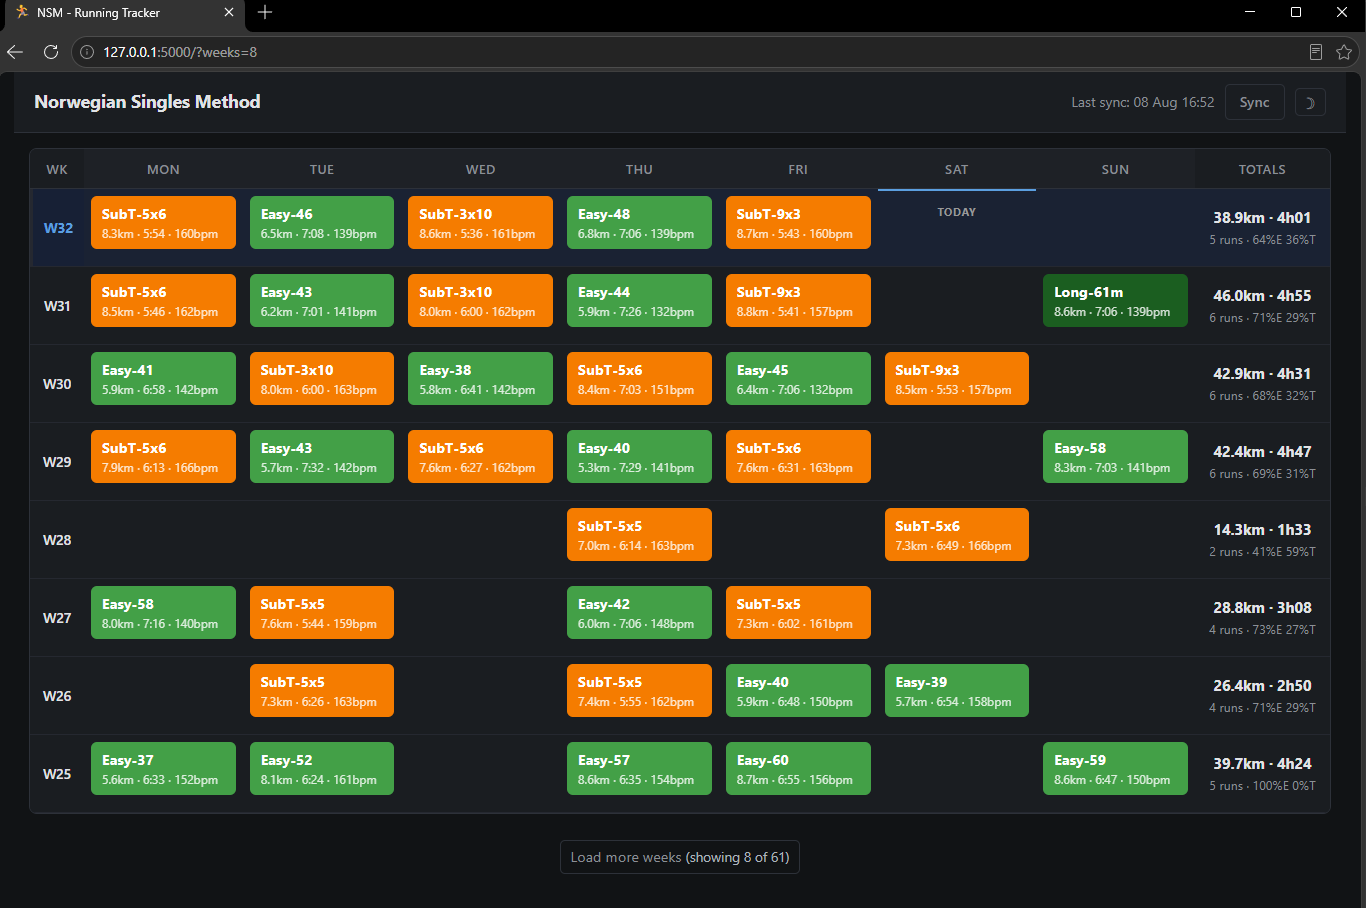
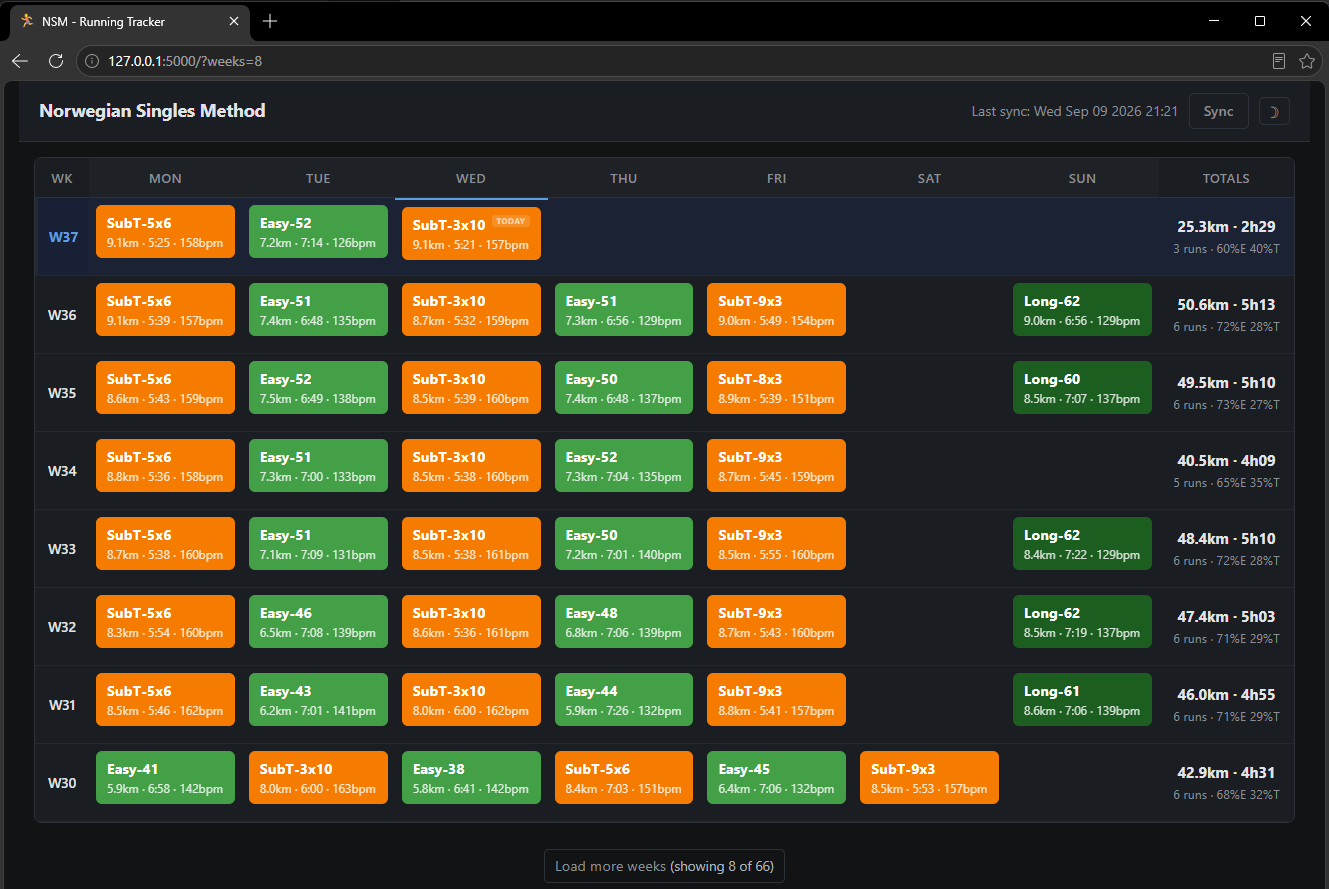
feat: auto-refresh dashboard and sync data

diff --git a/templates/index.html b/templates/index.html
@@ -143,34 +143,55 @@
     function doRefresh() {
         const btn = document.getElementById('refresh-btn');
         const errEl = document.getElementById('sync-error');
-        errEl.classList.add('d-none');
-        btn.querySelector('.label').textContent = 'Syncing…';
-        btn.querySelector('.spinner-border').classList.remove('d-none');
-        btn.disabled = true;
+        if (errEl) errEl.classList.add('d-none');
+        if (btn) {
+            btn.querySelector('.label').textContent = 'Syncing…';
+            btn.querySelector('.spinner-border').classList.remove('d-none');
+            btn.disabled = true;
+        }
 
         fetch('/api/refresh', { method: 'POST' })
             .then(r => r.json())
             .then(data => {
                 if (data.success) {
                     window.location.reload();
-                } else {
+                } else if (data.busy) {
+                    // Another sync is already running; just reset, no error.
+                    resetBtn(btn);
+                } else if (errEl) {
                     errEl.classList.remove('d-none');
                     errEl.title = 'Sync failed: ' + (data.error || 'Unknown error');
                     resetBtn(btn);
                 }
             })
             .catch(err => {
-                errEl.classList.remove('d-none');
-                errEl.title = 'Network error: ' + err;
+                if (errEl) {
+                    errEl.classList.remove('d-none');
+                    errEl.title = 'Network error: ' + err;
+                }
                 resetBtn(btn);
             });
     }
 
     function resetBtn(btn) {
+        if (!btn) return;
         btn.querySelector('.label').textContent = 'Sync';
         btn.querySelector('.spinner-border').classList.add('d-none');
         btn.disabled = false;
     }
+
+    // Stale-while-revalidate: auto-refresh in the background if data is old.
+    {% if stale %}
+    doRefresh();
+    {% endif %}
+
+    // Keep a long-open tab fresh: periodically re-check (server decides if a sync is needed).
+    setInterval(() => {
+        if (document.hidden) return;
+        const btn = document.getElementById('refresh-btn');
+        if (btn && btn.disabled) return;  // sync already in progress
+        window.location.reload();
+    }, {{ stale_minutes }} * 60 * 1000);
     </script>
 </body>
 </html>

diff --git a/app.py b/app.py
@@ -3,7 +3,8 @@
 import json
 import logging
 import sqlite3
-from datetime import datetime, timezone
+import threading
+from datetime import datetime, timedelta, timezone
 from pathlib import Path
 from zoneinfo import ZoneInfo, ZoneInfoNotFoundError
 
@@ -39,6 +40,9 @@ _DB_PATH = BASE_DIR / CONFIG.get("db_path", "nsm.db")
 _DB_PATH.parent.mkdir(parents=True, exist_ok=True)
 
 app = Flask(__name__)
+
+# Serialize syncs so a visit-triggered auto-refresh never overlaps a manual one.
+_sync_lock = threading.Lock()
 
 # Apply schema once at startup
 _init_db = sqlite3.connect(str(_DB_PATH))
@@ -188,14 +192,23 @@ def index():
     # Get last sync timestamp, converted to the athlete's timezone
     row = db.execute("SELECT value FROM sync_state WHERE key = 'last_sync_time'").fetchone()
     last_sync = None
+    last_sync_dt = None
     if row:
         try:
-            dt = datetime.fromisoformat(row[0])
-            if dt.tzinfo is None:
-                dt = dt.replace(tzinfo=timezone.utc)  # legacy naive rows: assume UTC
-            last_sync = dt.astimezone(tz).strftime(prefs["datetime_format"])
+            last_sync_dt = datetime.fromisoformat(row[0])
+            if last_sync_dt.tzinfo is None:
+                last_sync_dt = last_sync_dt.replace(tzinfo=timezone.utc)  # legacy naive rows: assume UTC
+            last_sync = last_sync_dt.astimezone(tz).strftime(prefs["datetime_format"])
         except (ValueError, TypeError):
             last_sync = row[0]
+
+    # Stale = never synced, or older than the configured threshold. The page tells
+    # the browser to kick off a background refresh when true (stale-while-revalidate).
+    stale_minutes = CONFIG.get("sync_stale_minutes", 60)
+    if last_sync_dt is None:
+        stale = True
+    else:
+        stale = datetime.now(timezone.utc) - last_sync_dt > timedelta(minutes=stale_minutes)
 
     return render_template(
         "index.html",
@@ -204,6 +217,8 @@ def index():
         today_weekday=datetime.now(tz).isocalendar()[2] - 1,
         format_pace=format_pace,
         last_sync=last_sync,
+        stale=stale,
+        stale_minutes=stale_minutes,
         shown_weeks=num_weeks,
         total_weeks=total_weeks,
         has_more=num_weeks < total_weeks,
@@ -214,6 +229,9 @@ def index():
 @app.route("/api/refresh", methods=["POST"])
 def refresh():
     """Trigger a sync with Intervals.icu."""
+    # Non-blocking: if a sync is already running, tell the caller instead of queuing.
+    if not _sync_lock.acquire(blocking=False):
+        return jsonify({"success": False, "busy": True}), 409
     try:
         db = get_db()
         result = sync_activities(db, CONFIG)
@@ -221,6 +239,8 @@ def refresh():
     except Exception as e:
         log.exception("Sync failed")
         return jsonify({"success": False, "error": str(e)}), 502
+    finally:
+        _sync_lock.release()
 
 
 if __name__ == "__main__":

diff --git a/README.md b/README.md
@@ -39,6 +39,7 @@ Edit `config.json`:
 | `athlete_id` | Athlete ID — `0` resolves to the API key owner | `"0"` |
 | `activity_types` | Activity types to include | `["Run", "TrailRun", "VirtualRun"]` |
 | `weeks_initial_sync` | Number of weeks of history to fetch on the first run | `12` (3 months) |
+| `sync_stale_minutes` | Auto-refresh when the page is opened and the last sync is older than this | `60` |
 | `port` | Local server port | `5000` |
 | `db_path` | SQLite database file path | `"data/nsm.db"` |
 | `debug` | Enable verbose logging for activity counts, filters, and sync details | `false` |
@@ -73,6 +74,7 @@ Intervals.icu API
 
 - **Initial sync:** Downloads all activities from the configured history period. For each run, it fetches interval data from the API to determine the workout classification.
 - **Incremental refresh:** Fetches activities from `last_sync - 2 days` through the current time. The overlap helps catch edits to recent activities.
+- **Auto-refresh on visit:** When you open the dashboard, it renders instantly from the local database, then refreshes in the background only if the last sync is older than `sync_stale_minutes`. A tab left open re-checks on the same interval, so it stays current without a manual reload. You can always force a refresh with the **Sync** button. 
 - **Upserts:** Existing activities are updated by activity ID, while new activities are inserted.
 - **Deleted activities:** The sync detects and removes activities that no longer exist in the configured date range.
 - **Rate limiting:** Waits 100 ms between interval-data requests.
